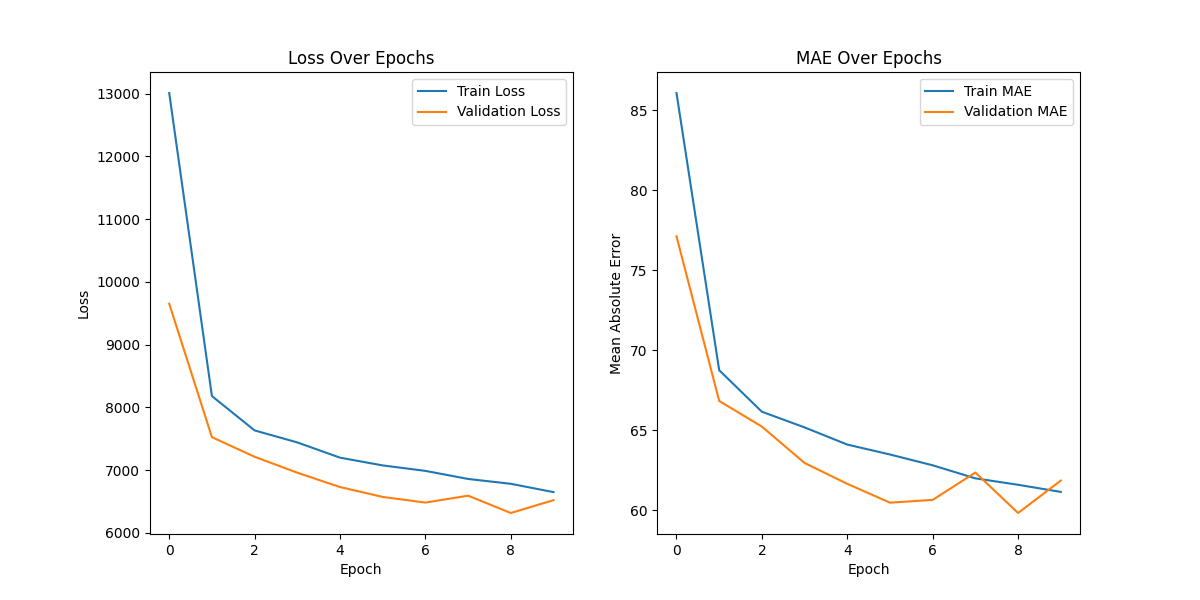
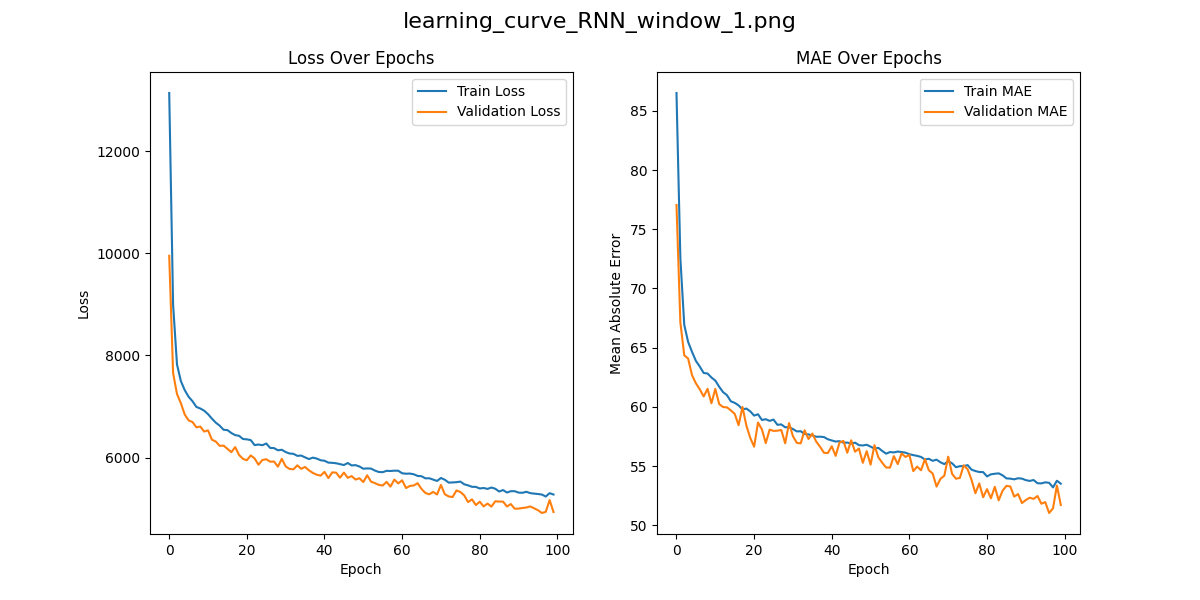
Update configs

diff --git a/Scripts/main_rnn.py b/Scripts/main_rnn.py
@@ -45,6 +45,7 @@ def train_model(model, X_train, y_train, X_val, y_val, epochs):
 
 def plot_learning_curves(history, filename, show_fig=False):
     plt.figure(figsize=(12, 6))
+    plt.suptitle(filename, fontsize=16)
     plt.subplot(1, 2, 1)
     plt.plot(history.history['loss'], label='Train Loss')
     plt.plot(history.history['val_loss'], label='Validation Loss')
@@ -73,7 +74,7 @@ def main(use_bidirectional=False):
         X_val = np.expand_dims(X_val, axis=1)
         model_type = 'Bi-RNN' if use_bidirectional else 'RNN'
         model = bi_rnn_model((1, X_train.shape[2])) if use_bidirectional else rnn_model((1, X_train.shape[2]))
-        history = train_model(model, X_train, y_train, X_val, y_val, epochs=10)
+        history = train_model(model, X_train, y_train, X_val, y_val, epochs=100)
         plot_learning_curves(history, f'learning_curve_{model_type}_window_{idx + 1}.png', model_type)
 
 

diff --git a/Scripts/Bi_RNN_model.py b/Scripts/Bi_RNN_model.py
@@ -4,7 +4,7 @@ from keras.layers import Bidirectional, SimpleRNN, Dense, Dropout, Input
 
 def bi_rnn_model(input_shape):
     model = Sequential()
-    model.add(Input(shape=input_shape))  # 正確的 input_shape 應該是 (sequence_length, features)
+    model.add(Input(shape=input_shape))
     model.add(Bidirectional(SimpleRNN(128, return_sequences=True)))
     model.add(Dropout(0.2))
     model.add(Bidirectional(SimpleRNN(64)))

diff --git a/Scripts/RNN_model.py b/Scripts/RNN_model.py
@@ -1,5 +1,5 @@
 from keras.models import Sequential
-from keras.layers import SimpleRNN, Dense, Dropout, Reshape, Input
+from keras.layers import SimpleRNN, Dense, Dropout
 
 
 def rnn_model(input_shape):
